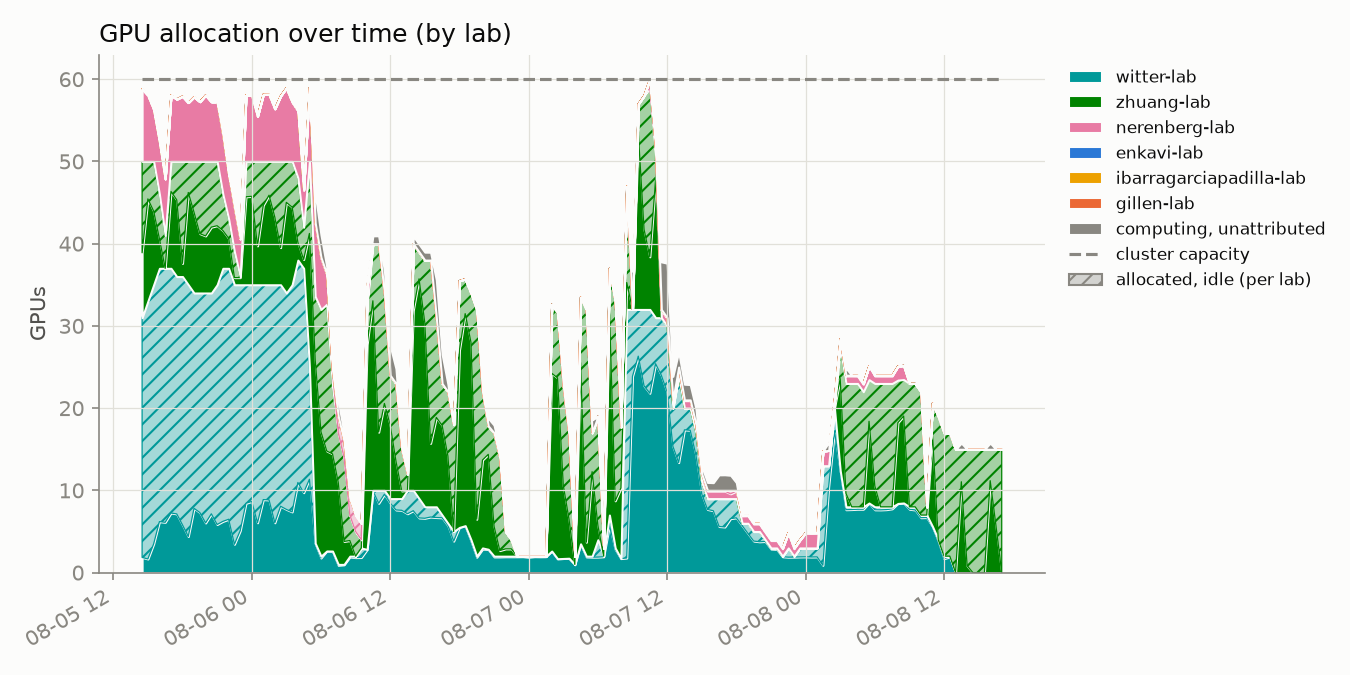
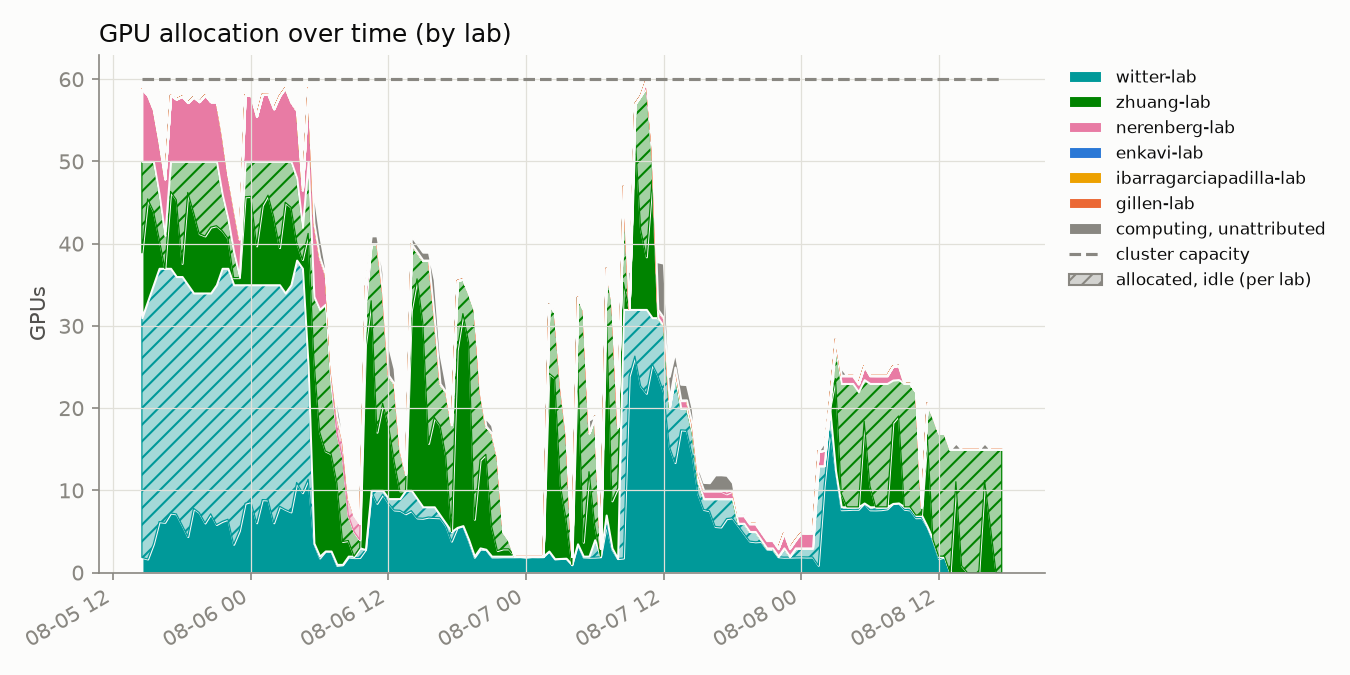
update 2026-08-08T17:30:01-07:00

diff --git a/README.md b/README.md
@@ -2,8 +2,8 @@
 
 Automated GPU/CPU/queue utilization tracker for `hopper.cluster`, updated every 30 minutes by cron. Usernames are anonymized to a stable per-account pseudonym; lab names are real.
 
-Last updated: 2026-08-08T17:00:10-07:00
-Samples: 150 queue snapshots, 150 GPU snapshots
+Last updated: 2026-08-08T17:30:10-07:00
+Samples: 151 queue snapshots, 151 GPU snapshots
 
 ## Resources
 
@@ -16,25 +16,25 @@ Samples: 150 queue snapshots, 150 GPU snapshots
 
 ## Headline
 
-- **43.5%** of the cluster's 60 GPUs allocated, averaged across all samples
-- **46.0%** average `nvidia-smi` utilization *when* a GPU is allocated to a job
-- **88.3%** average cgroup CPU utilization *when* a CPU is allocated to a job
+- **43.3%** of the cluster's 60 GPUs allocated, averaged across all samples
+- **45.9%** average `nvidia-smi` utilization *when* a GPU is allocated to a job
+- **88.4%** average cgroup CPU utilization *when* a CPU is allocated to a job
 
 ## Per lab / per user
 
 <table>
 <tr><th>Lab</th><th>User</th><th align='right'>GPU-hours allocated</th><th align='right'>CPU-hours allocated</th><th align='right'>GPU utilization</th></tr>
-<tr style='background-color:#d8ecd8'><td>zhuang-lab</td><td>user-0db9ced0</td><td align='right'>932.0</td><td align='right'>932.0</td><td align='right'>43%</td></tr>
+<tr style='background-color:#d8ecd8'><td>zhuang-lab</td><td>user-0db9ced0</td><td align='right'>939.5</td><td align='right'>939.5</td><td align='right'>42%</td></tr>
 <tr style='background-color:#d8efef'><td>witter-lab</td><td>user-554c620c</td><td align='right'>493.5</td><td align='right'>1023.0</td><td align='right'>68%</td></tr>
 <tr style='background-color:#d8efef'><td>witter-lab</td><td>user-d58f5a15</td><td align='right'>467.5</td><td align='right'>3740.0</td><td align='right'>9%</td></tr>
 <tr style='background-color:#fbebf1'><td>nerenberg-lab</td><td>user-6bb5f332</td><td align='right'>40.0</td><td align='right'>200.0</td><td align='right'>71%</td></tr>
 <tr style='background-color:#fbebf1'><td>nerenberg-lab</td><td>user-fedb5feb</td><td align='right'>22.5</td><td align='right'>54.0</td><td align='right'>67%</td></tr>
 <tr style='background-color:#fbebf1'><td>nerenberg-lab</td><td>user-b12dc074</td><td align='right'>0.0</td><td align='right'>16.0</td><td align='right'>—</td></tr>
 <tr style='background-color:#fcf0d8'><td>ibarragarciapadilla-lab</td><td>user-eec7ffae</td><td align='right'>0.0</td><td align='right'>426.5</td><td align='right'>—</td></tr>
-<tr style='background-color:#fce8e0'><td>gillen-lab</td><td>user-b89a87ef</td><td align='right'>0.0</td><td align='right'>852.0</td><td align='right'>—</td></tr>
 <tr style='background-color:#fcf0d8'><td>ibarragarciapadilla-lab</td><td>user-dad71a72</td><td align='right'>0.0</td><td align='right'>6.0</td><td align='right'>—</td></tr>
-<tr style='background-color:#fcf0d8'><td>ibarragarciapadilla-lab</td><td>user-3cfc41a3</td><td align='right'>0.0</td><td align='right'>4050.0</td><td align='right'>—</td></tr>
-<tr style='background-color:#dfeaf8'><td>enkavi-lab</td><td>user-c21bdaa4</td><td align='right'>0.0</td><td align='right'>197.0</td><td align='right'>—</td></tr>
+<tr style='background-color:#dfeaf8'><td>enkavi-lab</td><td>user-c21bdaa4</td><td align='right'>0.0</td><td align='right'>199.0</td><td align='right'>—</td></tr>
+<tr style='background-color:#fce8e0'><td>gillen-lab</td><td>user-b89a87ef</td><td align='right'>0.0</td><td align='right'>864.0</td><td align='right'>—</td></tr>
+<tr style='background-color:#fcf0d8'><td>ibarragarciapadilla-lab</td><td>user-3cfc41a3</td><td align='right'>0.0</td><td align='right'>4057.5</td><td align='right'>—</td></tr>
 </table>
 
 ## Usage over time
@@ -45,7 +45,7 @@ Samples: 150 queue snapshots, 150 GPU snapshots
 
 Solid = utilized by lab, hatched = allocated but idle, gray = usage not traceable to a lab, dashed line = cluster capacity.
 
-Attribution combines `nvidia-smi`'s process listing with Slurm's GPU-to-job binding record; the latter caught **2809** readings the former missed.
+Attribution combines `nvidia-smi`'s process listing with Slurm's GPU-to-job binding record; the latter caught **2820** readings the former missed.
 
 ## Queue
 
@@ -57,13 +57,13 @@ Attribution combines `nvidia-smi`'s process listing with Slurm's GPU-to-job bind
 
 ![CPU usage vs GPU usage, decayed](assets/cpu_gpu_usage.png)
 
-One point per user per snapshot (n=715), usage decayed on Slurm's ~7-day fairshare half-life.
+One point per user per snapshot (n=719), usage decayed on Slurm's ~7-day fairshare half-life.
 
 **GPU usage doesn't count toward priority on this cluster** (`TRESBillingWeights`/`PriorityWeightTRES` unset) - watch the **upper-left**: low CPU usage (high priority) with high GPU usage.
 
 ## Recommendations
 
-1. **Weight GPU usage in fairshare.** `TRESBillingWeights` and `PriorityWeightTRES` are both unset right now, so Slurm's fairshare score only sees CPU-seconds - a job holding 4 idle L40S GPUs costs nothing in priority as long as it isn't also holding CPUs. That's the exact failure mode the scatter above is built to catch (upper-left: low CPU usage, high GPU usage). Fix: `scontrol update partition=main TRESBillingWeights=CPU=1.0,GRES/gpu=<weight>` (or set `PriorityWeightTRES` cluster-wide), then `scontrol reconfigure` - a full `slurmctld` restart also works but drops in-flight priority state. A reasonable starting point for `<weight>` is the CPUs-per-GPU ratio on a GPU node (128 CPUs / 4 GPUs = 32), so one GPU costs as much fairshare as the CPU share it displaces; tune from there against next week's headline numbers (43.5% allocated, 46.0% utilized when allocated, as of this snapshot). The weight value itself is a policy call - loop in whoever owns cluster allocation policy before changing it.
+1. **Weight GPU usage in fairshare.** `TRESBillingWeights` and `PriorityWeightTRES` are both unset right now, so Slurm's fairshare score only sees CPU-seconds - a job holding 4 idle L40S GPUs costs nothing in priority as long as it isn't also holding CPUs. That's the exact failure mode the scatter above is built to catch (upper-left: low CPU usage, high GPU usage). Fix: `scontrol update partition=main TRESBillingWeights=CPU=1.0,GRES/gpu=<weight>` (or set `PriorityWeightTRES` cluster-wide), then `scontrol reconfigure` - a full `slurmctld` restart also works but drops in-flight priority state. A reasonable starting point for `<weight>` is the CPUs-per-GPU ratio on a GPU node (128 CPUs / 4 GPUs = 32), so one GPU costs as much fairshare as the CPU share it displaces; tune from there against next week's headline numbers (43.3% allocated, 45.9% utilized when allocated, as of this snapshot). The weight value itself is a policy call - loop in whoever owns cluster allocation policy before changing it.
 
 2. **Escalate on sustained low utilization** (see table and scatter above). Right now the clearest candidate is `user-d58f5a15` in `witter-lab`: 467.5 GPU-hours allocated at 9% average utilization, i.e. roughly 424 GPU-hours that sat idle instead of going to someone in the queue. Turning that into an automated escalation needs two decisions made up front: a utilization threshold (something like under 20% mean utilization over at least 50 allocated GPU-hours is a defensible starting bar - loose enough to skip short debugging runs, tight enough to catch parked allocations) and a grace period (how many consecutive low-utilization snapshots before it counts as "sustained" rather than a momentary lull between batches). Once those are set, the mechanism can be either soft (a bot that reads `data/gpu_samples.jsonl` and reminds the user/lab by email or Slack) or hard (a Slurm-side QOS penalty, e.g. `sacctmgr modify qos <qos> set Priority-=<n>`, applied after N consecutive offending snapshots). Neither exists yet - today the table and scatter above are a read-only signal, not an enforced policy.
 
